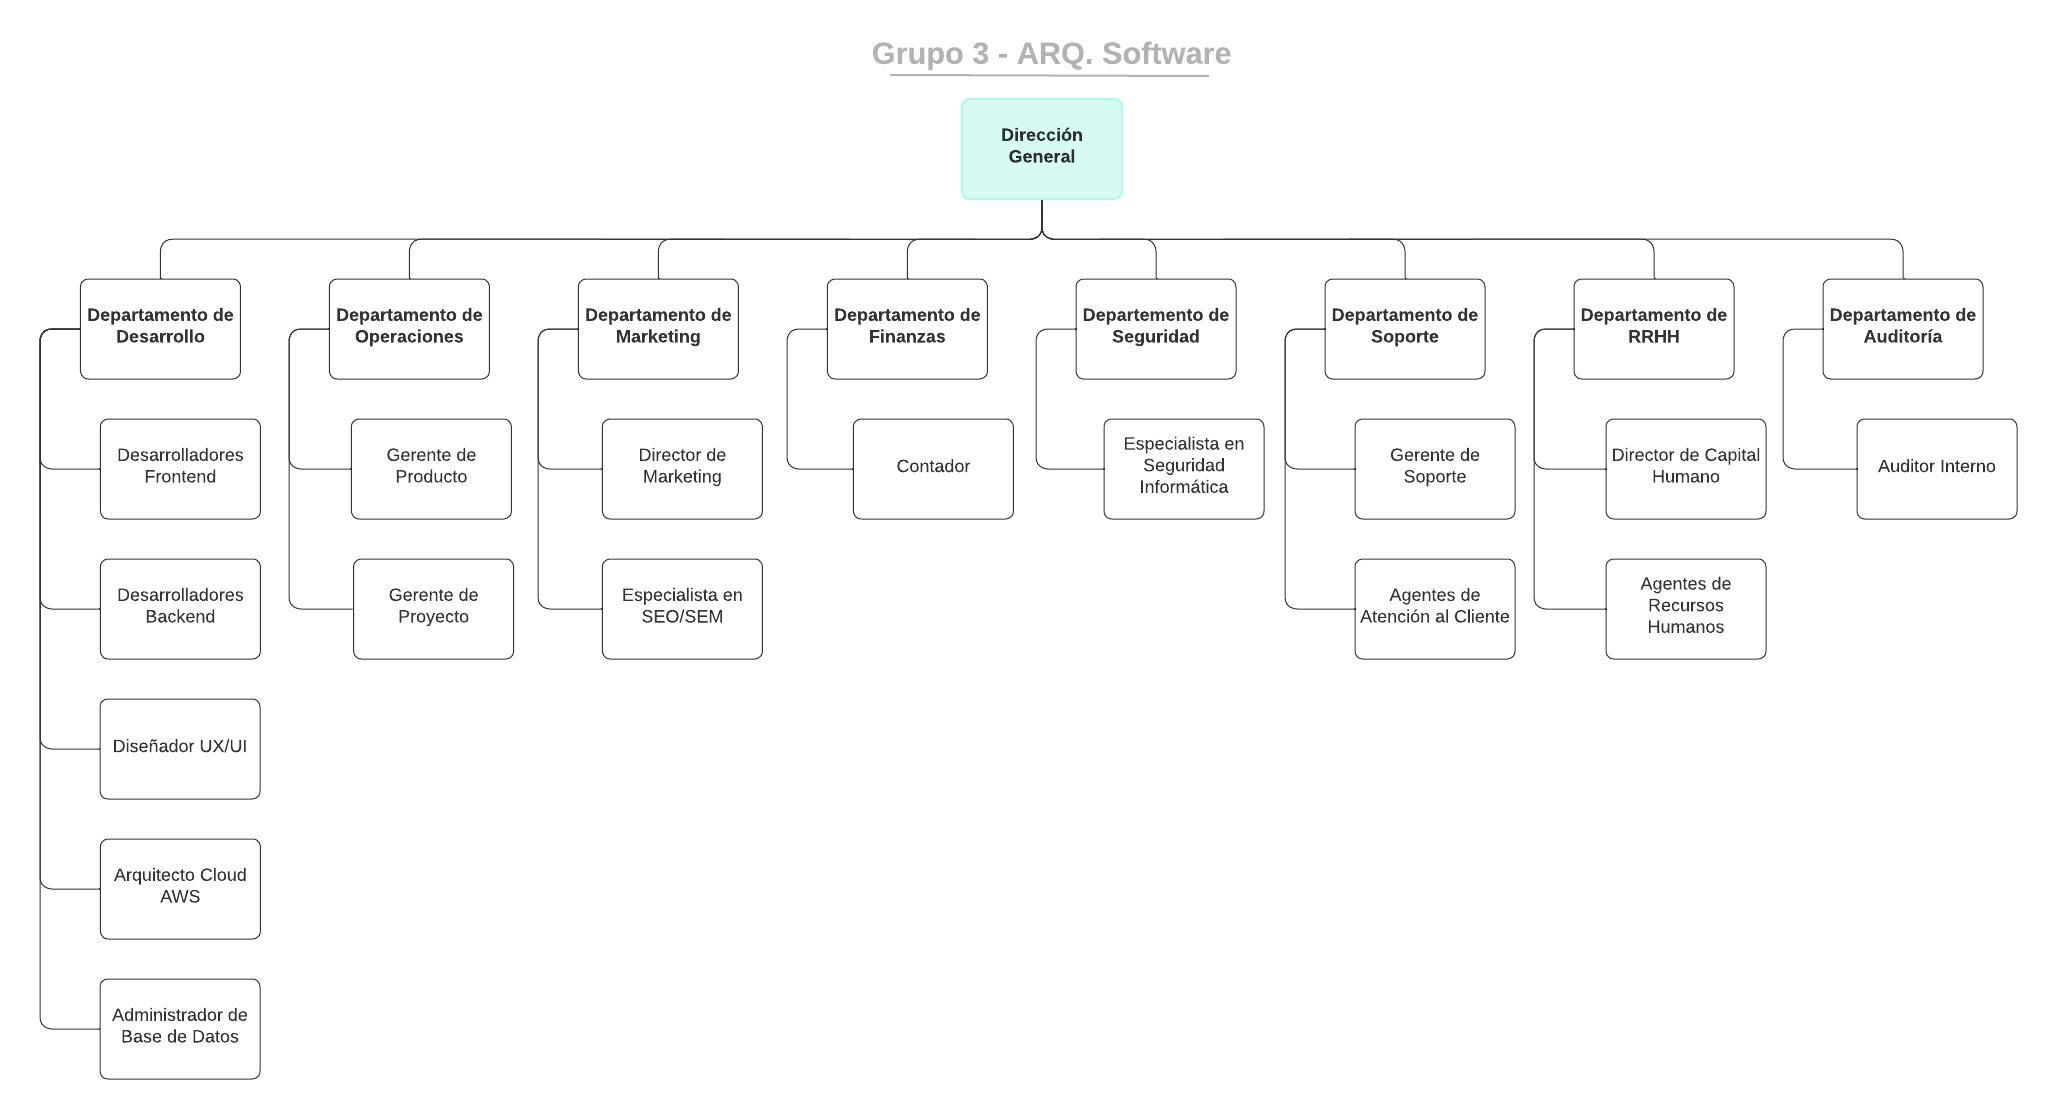
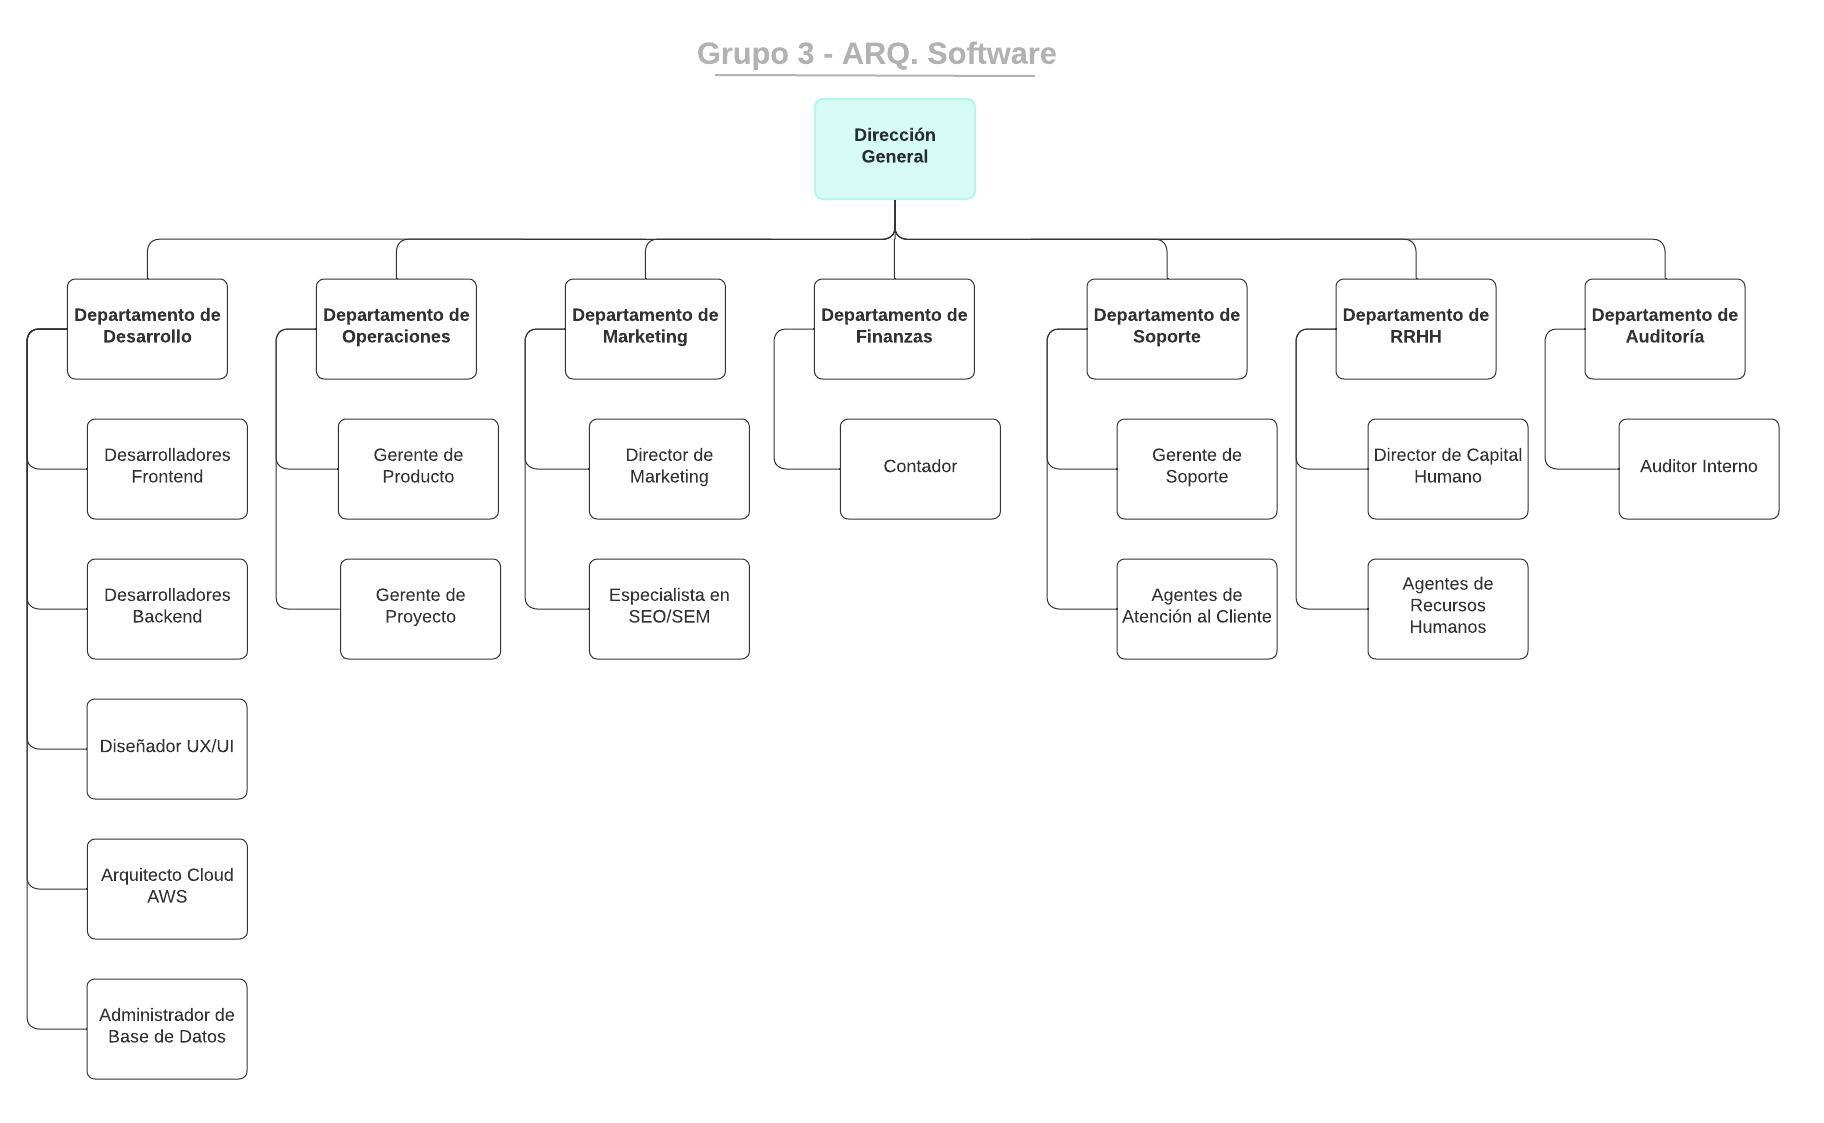
Distincion de organigrama y stakeholders + quitar dpto de seguridad (organigrama)

diff --git a/s01-Grupo3-MusicFest/Proyecto/Descripcion.md b/s01-Grupo3-MusicFest/Proyecto/Descripcion.md
@@ -6,8 +6,6 @@ Desarrollar una pagina web para la venta de tickets de conciertos. La pagina per
 
 # Estructura de Stakeholders
 
-![alt text](Imagenes/Organigrama.jpeg)
-
 * Analista: Gerente de proyecto
 * Arquitecto: Arquitecto Cloud AWS
 * Gestor de negocio: Gerente de porducto
@@ -24,6 +22,9 @@ Desarrollar una pagina web para la venta de tickets de conciertos. La pagina per
 * Ingeniero de pruebas: Especialista en Seguridad y Desarrolladores Backend
 * Usuario: Event manager y personas que quieran comprar tickets para conciertos
 
+# Organigrama
+
+![alt text](Imagenes/Organigrama.jpeg)
 
 # Stack Tecnológico
 
